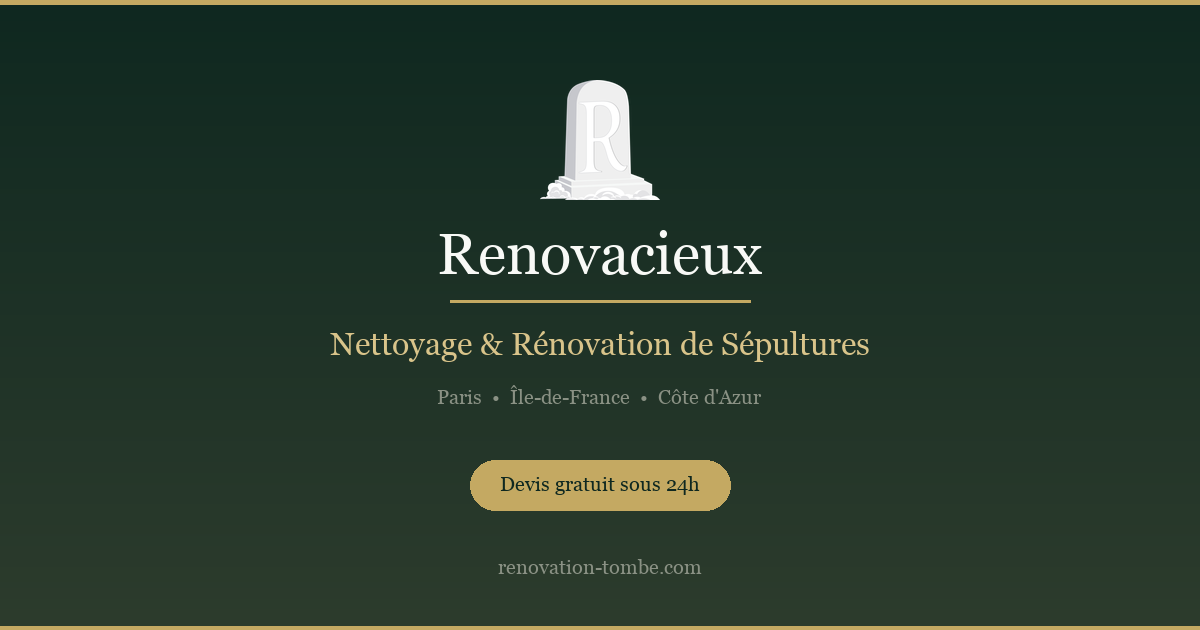
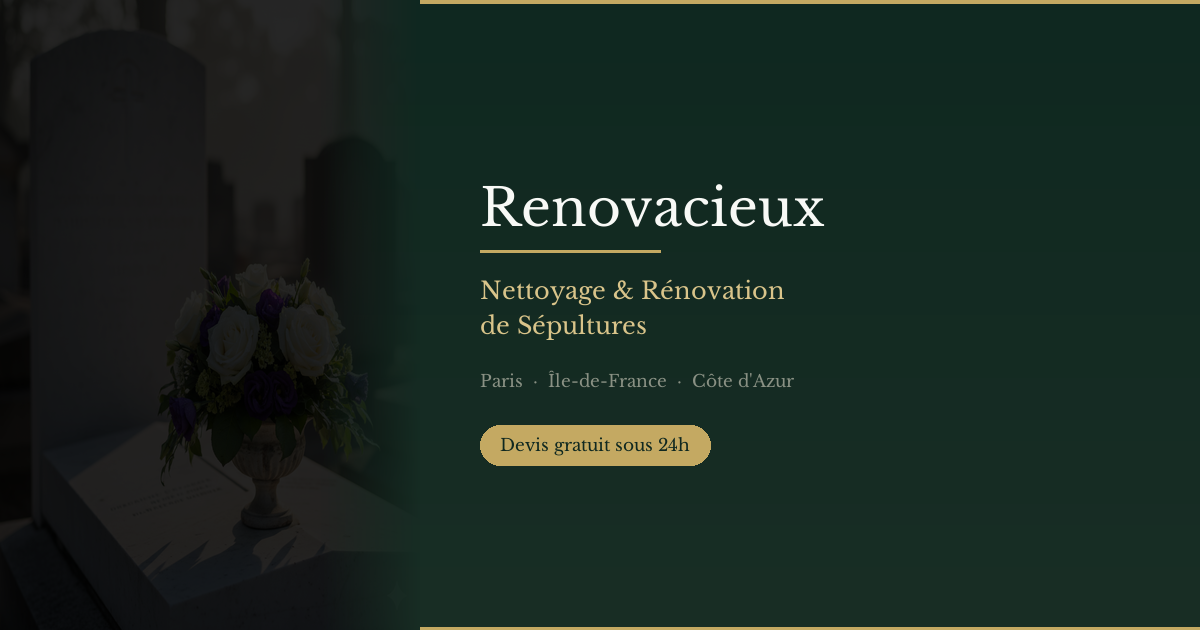
OG image v3 + splash sessionStorage (comme Court ou Crève)
- Nouvelle og-image avec hero bg + Libre Baskerville
- Splash: localStorage → sessionStorage (rejoue chaque nouvelle session)

Changed region(s): [[0.0, 0.0, 0.74, 1.0], [0.4317, 0.8746, 0.5858, 0.9349]]

diff --git a/index.html b/index.html
@@ -2180,11 +2180,11 @@
     // Splash: first visit only
     (function() {
       const splash = document.getElementById('splash');
-      if (localStorage.getItem('rnv_visited')) {
+      if (sessionStorage.getItem('rnv_visited')) {
         splash.remove();
         return;
       }
-      localStorage.setItem('rnv_visited', '1');
+      sessionStorage.setItem('rnv_visited', '1');
       document.body.style.overflow = 'hidden';
       setTimeout(function() {
         splash.classList.add('hide');
